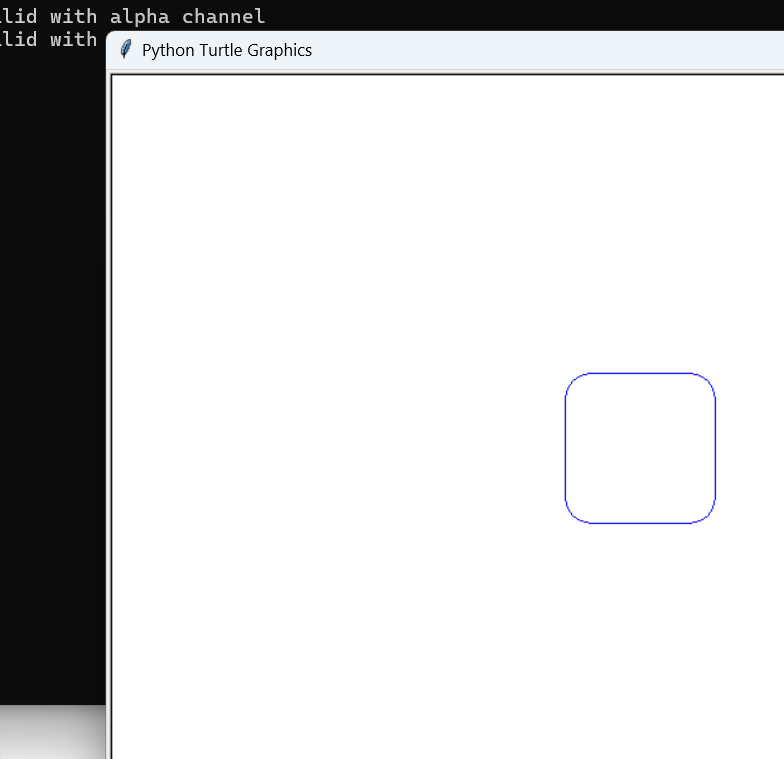
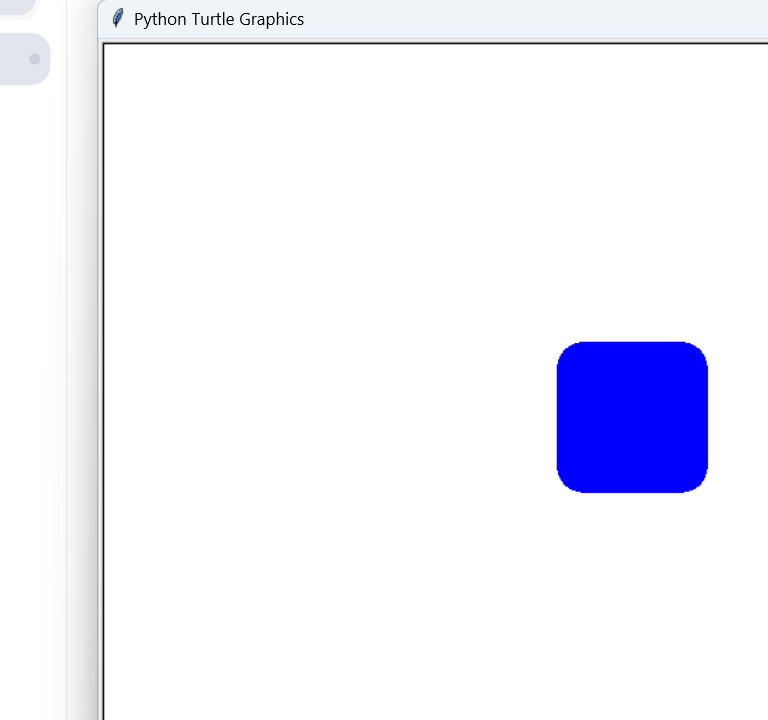
🐢 turtle 处女作升级：实心蓝 + 加速
- 我的代码/drawpicture.py：range(4) → range(2)（原来绕了两整圈，奇偶填充把肚子填没了），speed(3) → speed(0)
- 预览图/圆角方块-实拍.png：换成实心蓝版实拍
- readme.md：平反"turtle 不认圆弧"的旧说法，写明真正原因和修法
- gallery.html：画廊条目改名「turtle 处女作 · 实心蓝版实拍」

Changed region(s): [[0.0, 0.0, 1.0, 1.0], [0.7188, 0.4583, 0.9375, 0.7028]]

diff --git a/gallery.html b/gallery.html
@@ -187,7 +187,7 @@ const GROUPS = [
       { f: "游戏专区/preview-night.png",        n: "外卖员 · 游戏截图（夜晚）" },
       { f: "预览图/preview-orca-pet.png",       n: "赛博虎鲸宠物 · 网页版" },
       { f: "预览图/preview-orca-pet-mobile.png", n: "赛博虎鲸宠物 · 手机版排版" },
-      { f: "预览图/圆角方块-实拍.png",            n: "turtle 处女作 · 复活实拍" },
+      { f: "预览图/圆角方块-实拍.png",            n: "turtle 处女作 · 实心蓝版实拍" },
       { f: "预览图/赛博虎鲸-实拍.png",            n: "赛博虎鲸 · 复活实拍" }
     ]
   }

diff --git a/我的代码/drawpicture.py b/我的代码/drawpicture.py
@@ -2,7 +2,7 @@ import turtle
 
 screen = turtle.Screen()
 pen = turtle.Turtle()
-pen.speed(3)
+pen.speed(0)          # 原来 speed(3) 慢悠悠地画，0 是最快（想慢一点就改成 5、10）
 pen.color("blue")
 pen.fillcolor("blue")
 
@@ -10,7 +10,7 @@ pen.begin_fill()
 side_length = 80
 radius = 20
 
-for _ in range(4):   # 只需要4次，每边：直线 + 两个1/4圆
+for _ in range(2):   # 只要 2 次！正好绕一圈，begin_fill() 才认得这是个封闭图形
     pen.forward(side_length)
     pen.circle(radius, 90)
     pen.forward(side_length)
@@ -19,4 +19,3 @@ for _ in range(4):   # 只需要4次，每边：直线 + 两个1/4圆
 pen.end_fill()
 pen.hideturtle()
 turtle.done()
-

diff --git a/README.md b/README.md
@@ -55,12 +55,14 @@
 
 | 文件 | 说明 |
 | --- | --- |
-| `drawpicture.py` | 🐢 **她的 turtle 处女作！**（2025-08-25 16:10 写的）蓝色圆角方块，`forward(80)` + `circle(20, 90)` ×4。能跑，实测通过 ✅ |
+| `drawpicture.py` | 🐢 **她的 turtle 处女作！**（2025-08-25 16:10 写的）蓝色圆角方块，`forward(80)` + `circle(20, 90)`。能跑，实测通过 ✅ |
 | `上海大.py` | 🔢 同一晚 18:08 写的第二支：求最小 n 使 1²+2²+…+n² > 20232023。**实测输出 `393`** ✅ |
 
 > 一天写两个程序（8/25 16:10 + 18:08），青春证据 📜
 > 启动方式：`.py` 已关联 `C:\Windows\py.exe`，双击即可弹窗开画。
-> 已知小瑕疵：`begin_fill()` 没生效（turtle 的填充不认圆弧），所以是**空心**的。
+> 已知小瑕疵：~~`begin_fill()` 没生效（turtle 的填充不认圆弧）~~ → **2026-10-13 已修好 ✅**
+> 真正的原因不是圆弧：原来 `range(4)` 让画笔**绕了两整圈**（每次 180°，4 次 720°），同一个形状被描两遍，而 turtle 的填充用「奇偶规则」——被圈两遍的地方反而算图形外面，所以肚子是空的。
+> 修法：**`range(4)` → `range(2)`**（正好一圈），再把 `speed(3)` 改成 `speed(0)`（最快）。图形一点没变，就是变实心了 💙
 
 ## 我的个人网站/ 🌐
 | 文件 | 说明 |
@@ -95,7 +97,7 @@
 | `preview-orca-pet.png` | 赛博虎鲸宠物 · 网页版（1280×880） |
 | `preview-orca-pet-mobile.png` | 赛博虎鲸宠物 · 手机版排版对照（390×844 与 430×932 并排） |
 | `preview-gallery.png` | 画廊页本页截图 |
-| `圆角方块-实拍.png` | 🐢 turtle 代码跑起来的实拍照（2026-10-12 复活现场） |
+| `圆角方块-实拍.png` | 🐢 turtle 代码跑起来的实拍照（2026-10-13 实心蓝版 💙） |
 | `赛博虎鲸-实拍.png` | 🐋 赛博虎鲸宠物命令行原版复活现场 |
 
 ## 工具/ 🔧
